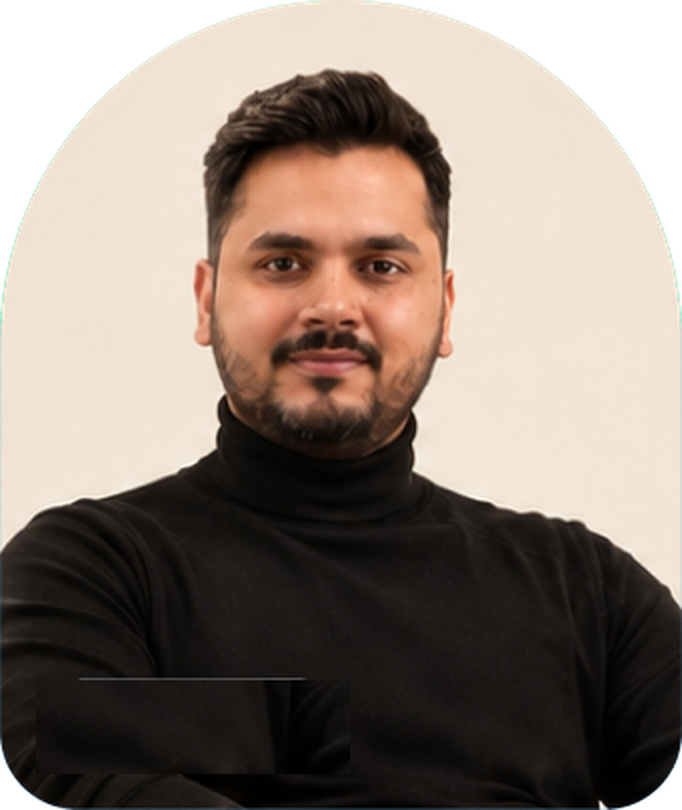
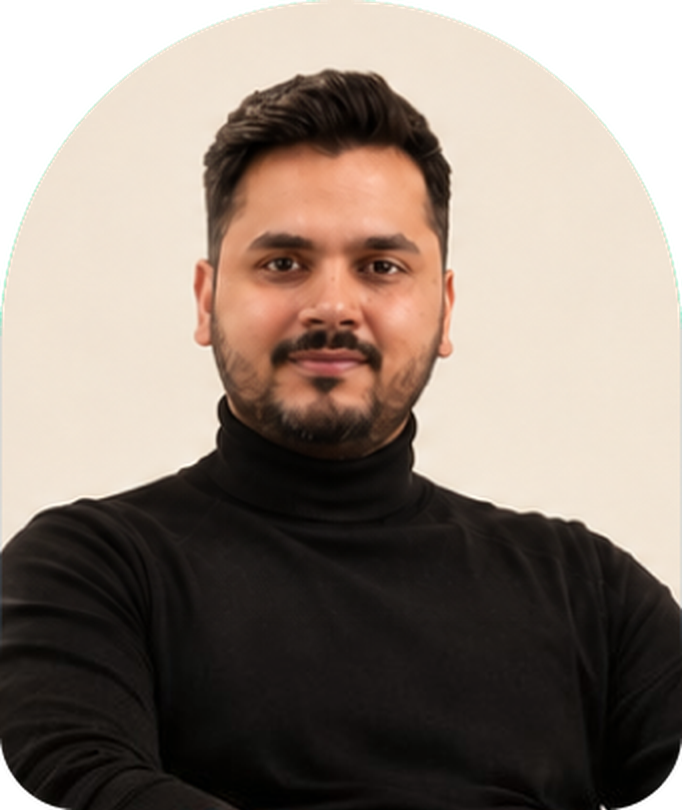
Our Team: remove the stray line above the Meet Bilal button
The card photo still carried the top edge of the Figma button; the
bottom of the photo is now rebuilt from the full studio shot.

Claude-Session: https://claude.ai/code/session_01ULmEauHV8F9QWj7dLHgBAa

diff --git a/app/globals.css b/app/globals.css
@@ -2105,9 +2105,7 @@ a {
   background: linear-gradient(90deg, rgba(40, 52, 66, 0.55), rgba(255, 255, 255, 0.18));
   -webkit-backdrop-filter: blur(14px) saturate(1.6);
   backdrop-filter: blur(14px) saturate(1.6);
-  box-shadow:
-    inset 0 1px 0 rgba(255, 255, 255, 0.45),
-    inset 0 0 0 1px rgba(255, 255, 255, 0.16);
+  box-shadow: inset 0 0 0 1px rgba(255, 255, 255, 0.12);
   transition: transform 0.4s var(--ease);
 }
 .tcard__photo--empty + .tcard__meet {
